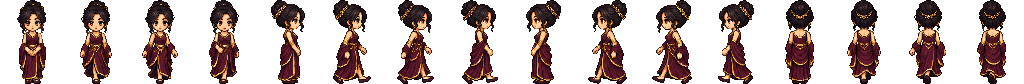
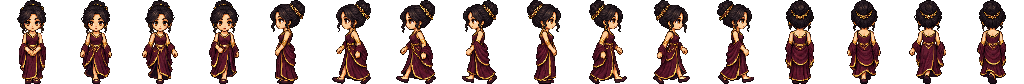
红裙女 LM-GUEST-02 左右两行对调（GPT 原图画反），重拼宾客大图
01 F 派 1A。图里帧 4～7、8～11 整行对调，像素不改；bake_used.py 重拼 guest_atlas、更新 lm_index sha1。附改前改后对照图。GPT 以后重交 02 要核方向。

Changed region(s): [[0.25, 0.0, 0.75, 1.0]]

diff --git a/godot/回执/查-GPT人物乱走和比例-1004.md b/godot/回执/查-GPT人物乱走和比例-1004.md
@@ -88,3 +88,11 @@ GPT 11 位自己比（数字都是第 1 帧、像素）：
 **做了什么**：查清楚了。「乱走」只有一位——穿红裙子那位女客人，GPT 画她的时候把「朝左」和「朝右」两张画反了，所以她往左走脸朝右，像倒着走。别的人走路方向都是对的，走路路线也没问题。「比例不一」主要是 GPT 画的精细小人和以前我们自己画的粗像素小人混在一起站（湖边、果园、草坪伴娘伴郎、服务员这些还是老的）；另外有三位头发多的头显得特别大。
 
 **你要做什么**：你不用做什么。01 会拿着改法问你先改哪个。
+
+## 追加：1A 已做（01 F 10/4 派；2A、2B、3 先不做，等阿鱼定人物怎么统一）
+
+- 红裙女（LM-GUEST-02）图里第 2、3 行（帧 4～7、8～11）整行对调，像素一点没改；跑 `tools/bake_used.py` 重拼宾客大图、更新 `lm_index.json` 里她的 sha1（`--check` 过）。
+- 改完各处一起对：宴会厅宾客和亲友、迎宾院走动的客人、麻将室替身 mj3_e（本来就写的朝左，现在真朝左）。用她背影、正脸的地方不受影响。
+- 对照图：`回执/查-GPT人物乱走和比例-1004/红裙女四个方向-改前改后.png`。
+- 验收：导入 0 aborted；客户端测试 65 过（`test_map` 照旧只打印）；桥 RESULT PASS。没出码。
+- **GPT 以后重交 LM-GUEST-02 要核方向**：标「左」那行脸要朝左。GPT 交的原稿行是反的，直接拷进来会又反回去。
